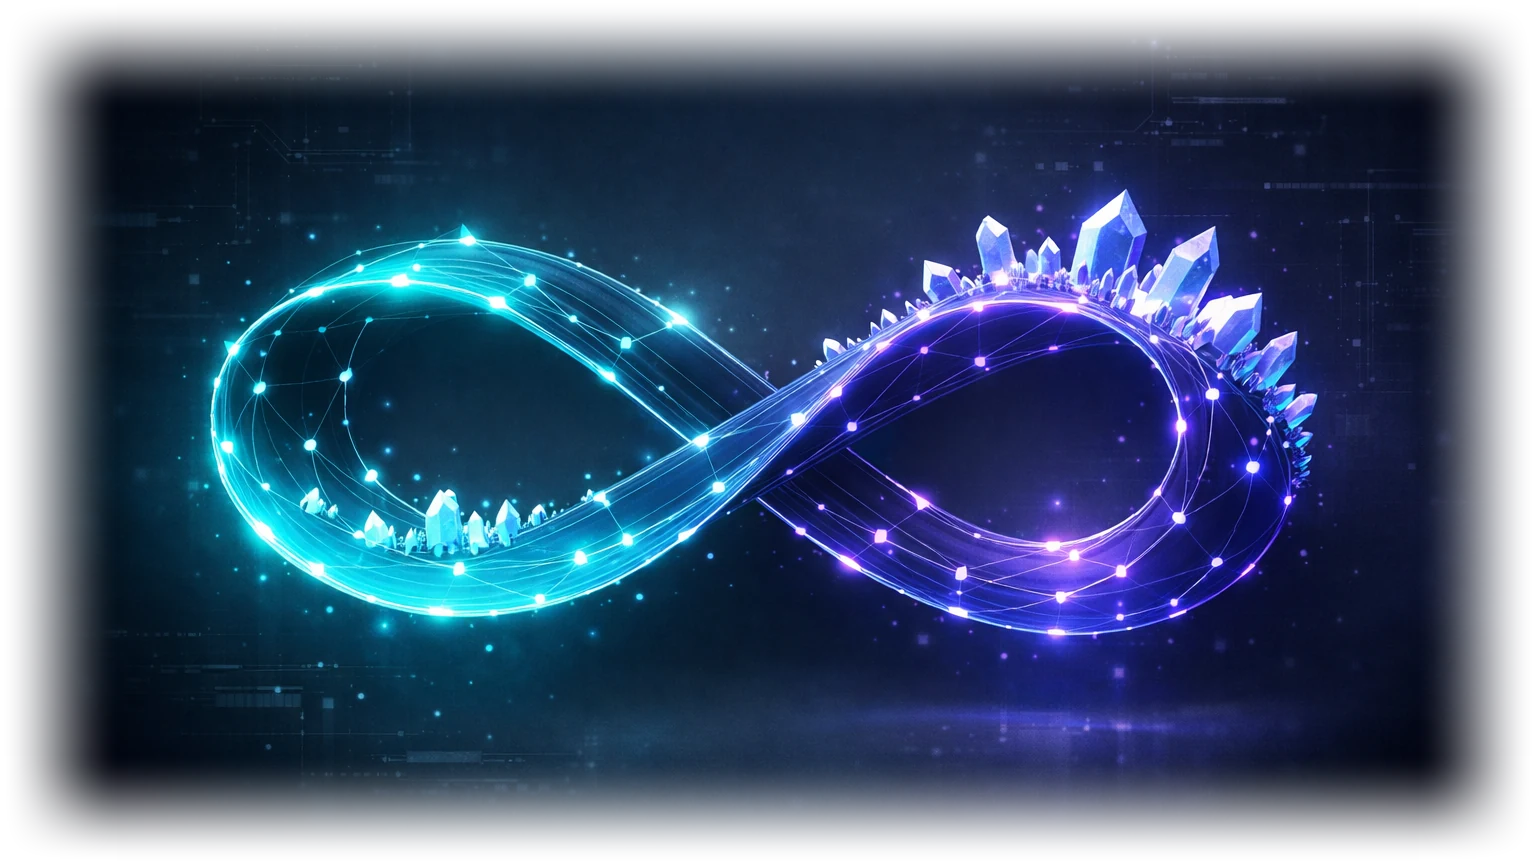
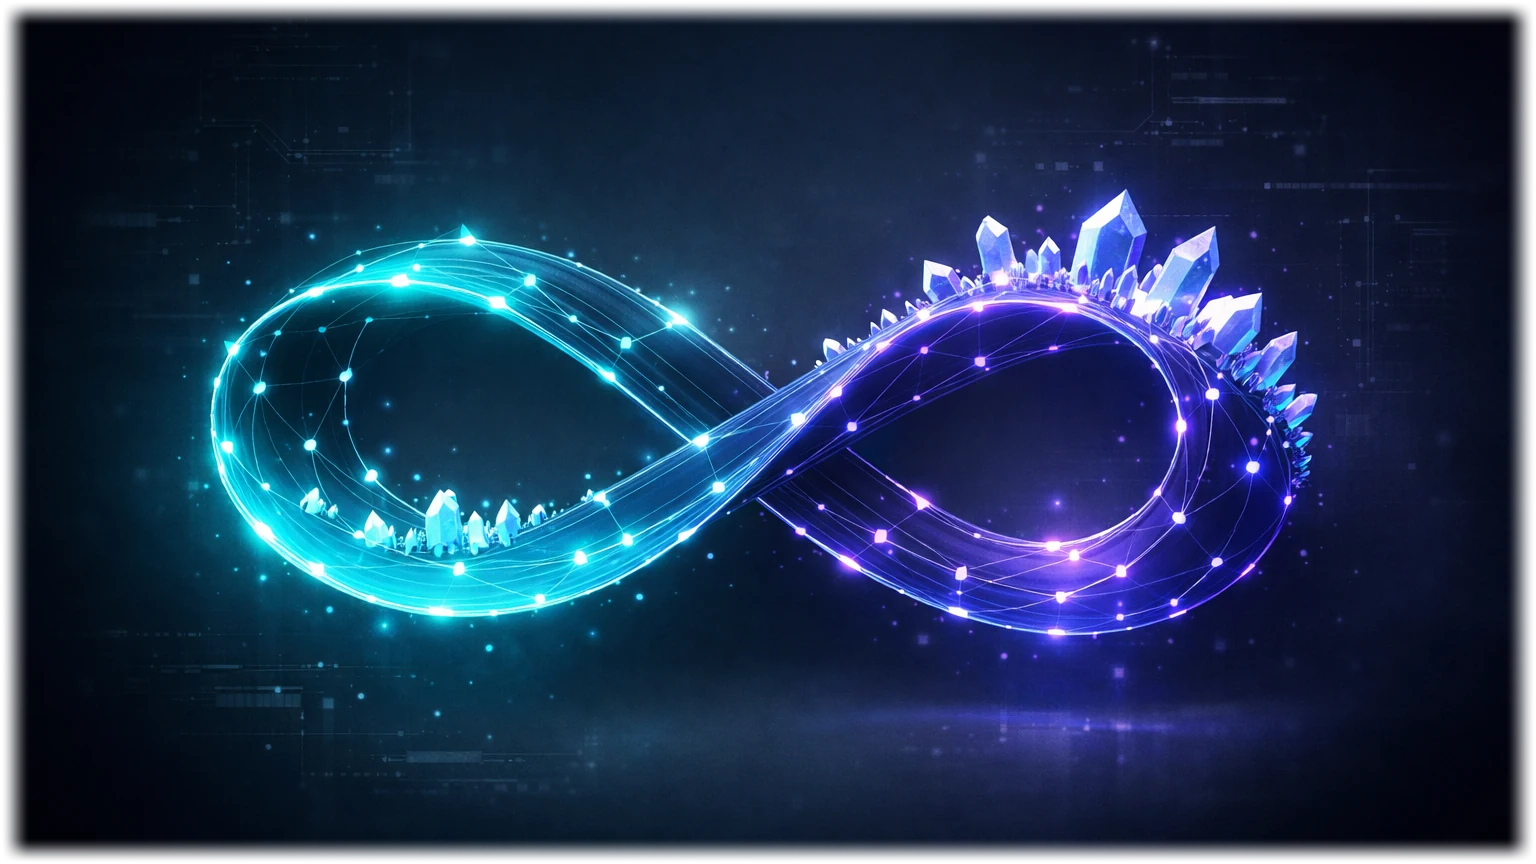
docs: Concepts 용어집·Obsidian 섹션 추가 + 히어로 페이드 폭 축소
- Concepts 섹션: loop engineering 원리 + maker/verifier/rubric/gate/vault/distill/Loop-Verified 용어 정의
- 'Everything is markdown — open it in Obsidian' 섹션: 순수 마크다운·그래프뷰·no lock-in
- 4개 언어(en/ko/ja/zh) 모두 반영
- 히어로 가장자리 페이드 폭 120x110 -> 30x26px (너무 넓다는 피드백 반영)

Changed region(s): [[0.0, 0.0, 1.0, 1.0]]

diff --git a/README.ko.md b/README.ko.md
@@ -34,6 +34,20 @@ Loopcraft는 바로 그 시스템을 설치 가능한 플러그인으로 만든 
 - **작업 안에서** — `loop-task`는 당신의 작업을 독립 `verifier`에게 넘깁니다. verifier는 rubric에 따라 산출물과 기준만 보고 채점합니다 — maker의 추론은 절대 보지 않으므로 설득해서 통과시킬 수 없습니다. 실패하면 maker가 판정을 받아 `maxRetries`까지 재시도합니다. 통과하면 실제 게이트(테스트·타입체크)를 통과한 뒤 `Loop-Verified: n/m`이 찍힌 커밋으로 남습니다.
 - **세션을 가로질러** — `.loop/memory` vault는 리포와 함께 이동합니다. `SessionStart`가 이를 주입해 Claude는 과거 세션이 배운 것을 이미 아는 상태로 시작하고, 무언가 실패하면 `distill`이 그것을 *검증된* 재사용 규칙으로 바꾸며, Stop gate와 PreCompact hook이 세션이 끝나거나 컨텍스트가 요약돼 사라지기 전에 진행 상황을 반드시 기록하게 합니다. 아무것도 처음부터 다시 배우지 않습니다.
 
+## 개념 (Concepts)
+
+**루프 엔지니어링(loop engineering)** 이 모든 것의 바탕이 되는 발상입니다: 점점 더 큰 프롬프트를 손으로 다듬는 대신, 모델이 도는 *루프* 자체를 설계해 결과를 개선합니다 — 행동하고, 환경에서 피드백을 받고, 교정하고, 배운 것을 기록한다. 지렛대의 받침점이 모델의 가중치에서 그것을 둘러싼 시스템(메모리·검증·게이트)으로 옮겨집니다. 좋은 루프 안의 약한 모델이, 메모리도 검증도 없는 강한 모델을 이깁니다. (이 관점은 Lance Martin의 loop/context engineering과 Andrej Karpathy의 LLM Wiki 패턴에 기대고 있습니다.)
+
+이 README가 쓰는 나머지 용어:
+
+- **Maker(메이커)** — `loop-task`에서 작업을 만들어내는 주체, 즉 당신의 요청에 따라 움직이는 Claude입니다. maker는 자기 자신을 채점하지 않습니다.
+- **Verifier(검증자)** — maker의 산출물을 rubric에 따라 채점하는 독립 서브에이전트입니다. 산출물과 기준만 볼 뿐 maker의 추론은 절대 보지 않으므로 설득당해 통과시킬 수 없습니다. (`agents/verifier.md`)
+- **Rubric(루브릭)** — `.loop/rubrics/`에 있는 작은 마크다운 파일로, 특정 종류의 작업에 대해 통과/실패 기준과 각 기준을 *어떻게* 검증하는지(실행할 명령, 확인할 파일)를 선언합니다. verifier가 채점하는 계약서입니다. 예: `code` rubric은 "테스트 통과", "비밀정보 미포함", "공개 함수 문서화"를 요구할 수 있습니다.
+- **Gate(게이트)** — 커밋 전에 반드시 0으로 종료돼야 하는, 프로젝트의 실제 명령(`npm test`, 타입체크, `./tests/run.sh`)입니다. rubric이 품질을 판단한다면, gate는 실제로 돌아가는지를 강제합니다.
+- **Vault(볼트)** — `.loop/memory/`, 리포와 함께 이동하는 순수 마크다운 저장소: `INDEX.md`(목차+통계), `STATE.md`(세션 인계), `LEDGER.md`(실패 원장), `notes/`(증류된 규칙).
+- **Distill(증류)** — 실패를 두 번 배우는 대신 vault의 *검증된* 재사용 노트로 바꾸는 5단계 프로토콜(Fail → Investigate → Verify → Distill → Consult).
+- **Loop-Verified: n/m** — `loop-task`가 커밋 트레일러에 찍는 표식: 독립 verifier 기준 m개 중 n개 충족. 당신의 감사 추적입니다.
+
 ## 제공 기능
 
 | 구성요소 | 역할 |
@@ -152,6 +166,12 @@ git log --oneline -- .loop/memory/   # 루프가 언제 무엇을 배웠는지
 ```
 
 노트 frontmatter: `title / tags / category (debugging|pattern|environment|decision) / confidence / verified / created / updated / sources`.
+
+## 모든 것은 마크다운 — Obsidian에서 열어보세요
+
+vault에는 데이터베이스도, 앱 의존성도 없습니다. 모든 노트는 YAML frontmatter와 `[[위키링크]]`를 쓰는 순수 마크다운이라, 루프가 읽는 바로 그 파일을 당신도 읽고 grep하고 diff하고 손으로 고칠 수 있습니다.
+
+Obsidian을 `.loop/memory/`로 향하게 하면 살아 있는 vault가 됩니다: 그래프 뷰로 증류된 규칙들이 어떻게 연결되는지 보이고, 백링크로 관련 실패가 드러나며, frontmatter(`category`, `verified`, `confidence`)가 검색 가능한 메타데이터가 됩니다. 루프가 Obsidian을 *요구*하는 건 전혀 아닙니다 — 시스템이 무엇을 배웠는지 *보기에* 좋은 방법일 뿐입니다. 터미널이 편하다면? `git log -- .loop/memory/`로 루프가 언제 무엇을 배웠는지 알 수 있습니다.
 
 ## 로드맵
 

diff --git a/README.md b/README.md
@@ -34,6 +34,20 @@ The loop closes on two timescales:
 - **Within a task** — `loop-task` hands your work to an independent `verifier` that grades it against a rubric, seeing only the output and the criteria — never the maker's reasoning, so it can't be argued into a pass. Fail, and the maker gets the verdict and retries, up to `maxRetries`. Pass, and the work clears your real gates (tests, typecheck) and lands as a commit stamped `Loop-Verified: n/m`.
 - **Across sessions** — the `.loop/memory` vault travels with the repo. `SessionStart` injects it, so Claude begins already knowing what past sessions learned; when something fails, `distill` turns it into a *verified*, reusable rule; and the Stop gate and PreCompact hooks make sure progress is written down before a session ends or the context is summarized away. Nothing gets re-learned from scratch.
 
+## Concepts
+
+**Loop engineering** is the idea underneath everything here: you improve outcomes by shaping the *loop* the model runs in — act, get feedback from the environment, correct, and write down what was learned — rather than by hand-tuning an ever-larger prompt. The leverage moves from the model's weights to the system around it: memory, verification, and gates. A weaker model in a good loop beats a stronger model with no memory and no checks. (The framing draws on Lance Martin's work on loop/context engineering and Andrej Karpathy's LLM Wiki pattern.)
+
+The rest of the vocabulary this README uses:
+
+- **Maker** — whoever produces the work in a `loop-task`: Claude, acting on your request. The maker never grades itself.
+- **Verifier** — an independent subagent that scores the maker's output against a rubric. It sees only the output and the criteria — never the maker's reasoning — so it can't be argued into a pass. (`agents/verifier.md`)
+- **Rubric** — a small markdown file in `.loop/rubrics/` that declares, for a class of work, the pass/fail criteria and *how* each one is verified (a command to run, a file to inspect). It's the contract the verifier grades against. Example: a `code` rubric might require "tests pass", "no secrets committed", "public functions documented".
+- **Gate** — a real command from your project (`npm test`, a typecheck, `./tests/run.sh`) that must exit 0 before work is committed. Rubrics judge quality; gates enforce that it actually runs.
+- **Vault** — `.loop/memory/`, the plain-markdown store that travels with the repo: `INDEX.md` (map + stats), `STATE.md` (session handoff), `LEDGER.md` (failure log), and `notes/` (distilled rules).
+- **Distill** — the 5-stage protocol (Fail → Investigate → Verify → Distill → Consult) that turns a failure into a *verified*, reusable note in the vault, instead of a lesson you learn twice.
+- **Loop-Verified: n/m** — a commit trailer stamped by `loop-task`: n of m rubric criteria met, judged by the independent verifier. Your audit trail.
+
 ## What you get
 
 | Component | What it does |
@@ -152,6 +166,12 @@ git log --oneline -- .loop/memory/   # what the loop learned, when
 ```
 
 Note frontmatter: `title / tags / category (debugging|pattern|environment|decision) / confidence / verified / created / updated / sources`.
+
+## Everything is markdown — open it in Obsidian
+
+The vault has no database and no app dependency. Every note is plain markdown with YAML frontmatter and `[[wikilinks]]`, so the same files the loop reads are files you can read, grep, diff, and edit by hand.
+
+Point Obsidian at `.loop/memory/` and it becomes a live vault: the graph view shows how distilled rules link together, backlinks surface related failures, and frontmatter (`category`, `verified`, `confidence`) turns into searchable metadata. Nothing about the loop *requires* Obsidian — it's just a good way to *see* what the system has learned. Prefer the terminal? `git log -- .loop/memory/` shows what the loop learned, and when.
 
 ## Roadmap
 

diff --git a/.loop/memory/STATE.md b/.loop/memory/STATE.md
@@ -3,21 +3,20 @@
 > 갱신: 2026-07-17
 
 ## 지금 하던 것
-- README 이미지 + 설명 보강 (로고는 스킵하기로 결정).
-- ✅ 히어로 `assets/loopcraft-hero.jpg` (1536×864, 16:9, JPEG q94, 287KB) — 4개 README 상단 배치.
-- ✅ 동작 원리 다이어그램 `assets/loopcraft-how-it-works.svg` — 4개 README "How it works" 섹션에 `<img width=900>`로 삽입, 렌더 검증함.
-- ✅ 4개 README(en/ko/ja/zh)에 새 섹션 2개 추가: "Why Loopcraft?"(문제의식·철학·대상), "How it works"(다이어그램 + 작업내/세션간 2가지 시간대 설명).
-- ✅ README.ja.md 기존 오타 수정: "리포지토리에는푸시" 한글 혼입 → "プッシュ".
+- README 콘텐츠·비주얼 보강 (로고 스킵).
+- ✅ 히어로 `assets/loopcraft-hero.webp` (16:9, alpha 페더 페이드, 117KB) — 4개 README 상단. 페이드 폭은 **30×26px(얇게)** 적용(초기 120×110은 너무 넓다는 피드백 반영).
+- ✅ 동작원리 다이어그램 `assets/loopcraft-how-it-works.svg` — How it works 섹션에 삽입, inject 라벨 겹침 수정 완료.
+- ✅ 4개 README 섹션: "Why Loopcraft?", "How it works"(다이어그램), **"Concepts"(용어집: loop engineering 원리 + maker/verifier/rubric/gate/vault/distill/Loop-Verified 정의)**, **"Everything is markdown — Obsidian"(마크다운·그래프뷰·no lock-in)**.
 
 ## 다음 단계
-- (없음 — push 완료)
+- (없음 — 커밋·push 예정/완료)
 
 ## 열린 질문
-- (없음)
+- 히어로 페이드 폭: 현재 A(30×26). 사용자가 원하면 B(55×48) 또는 더 얇게로 교체 가능(scratchpad에 fade_A/B 프리뷰 있음).
 
 ## 최근 결정
-- 히어로: 후보 #2 채택 → 16:9 중앙 크롭. README 이미지는 `<p align="center"><img>` HTML 관용구 사용(마크다운으로는 정렬·너비 지정 불가 — GitHub 표준 방식).
-- 히어로 가장자리 페이드: alpha 페더로 투명 처리해 라이트(흰)·다크(#0d1117) 양쪽에서 사각 경계 제거. 포맷은 **WebP**(알파+120KB, jpg/png보다 가벼움) → `assets/loopcraft-hero.webp`. jpg/png 폐기.
-- 동작원리 SVG `inject` 라벨을 화살표 왼쪽으로 이동(우측 정렬)해 곡선 겹침 해소.
-- "동작 원리"는 손수 만든 SVG(라벨 정확·벡터·plain-files). GitHub `<img src="*.svg">` 인라인 렌더 확인.
+- README 이미지는 `<p align="center"><img>` HTML 관용구(GitHub 표준; 마크다운은 정렬·너비 불가).
+- 히어로 가장자리: alpha 페더 투명 처리로 라이트/다크 양쪽 사각 경계 제거. 포맷 WebP(알파+경량). 폭 30×26px.
+- 동작원리는 손수 만든 SVG(GitHub `<img src=*.svg>` 인라인 렌더 확인).
+- Concepts 용어집 + Obsidian 섹션으로 "무엇을·왜·용어" 설명 강화.
 - 로고 제작 스킵.
